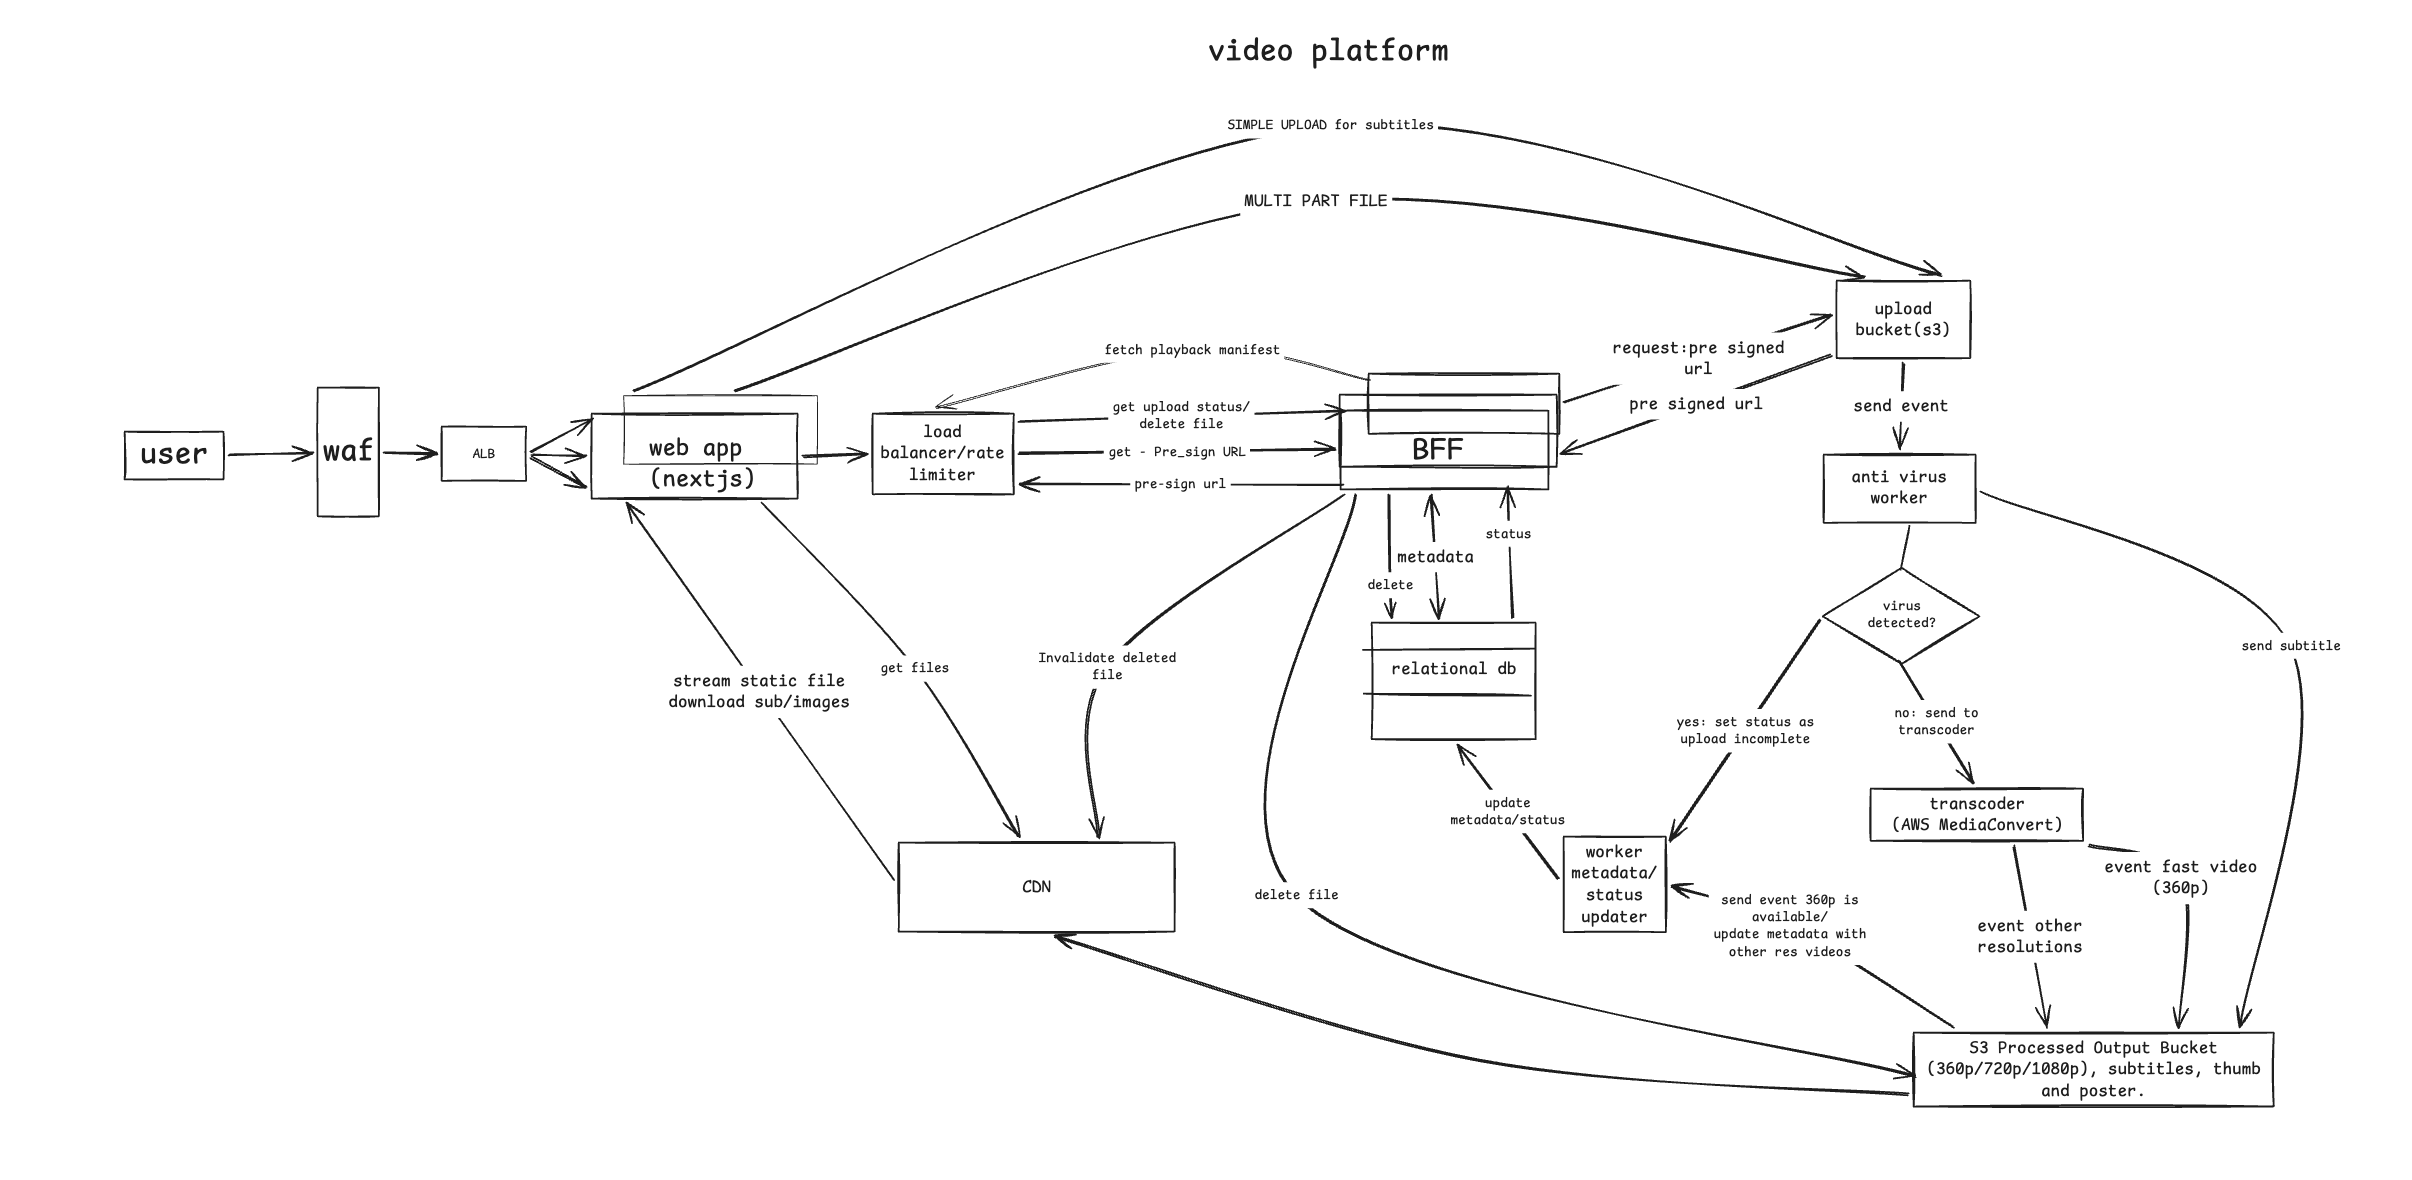
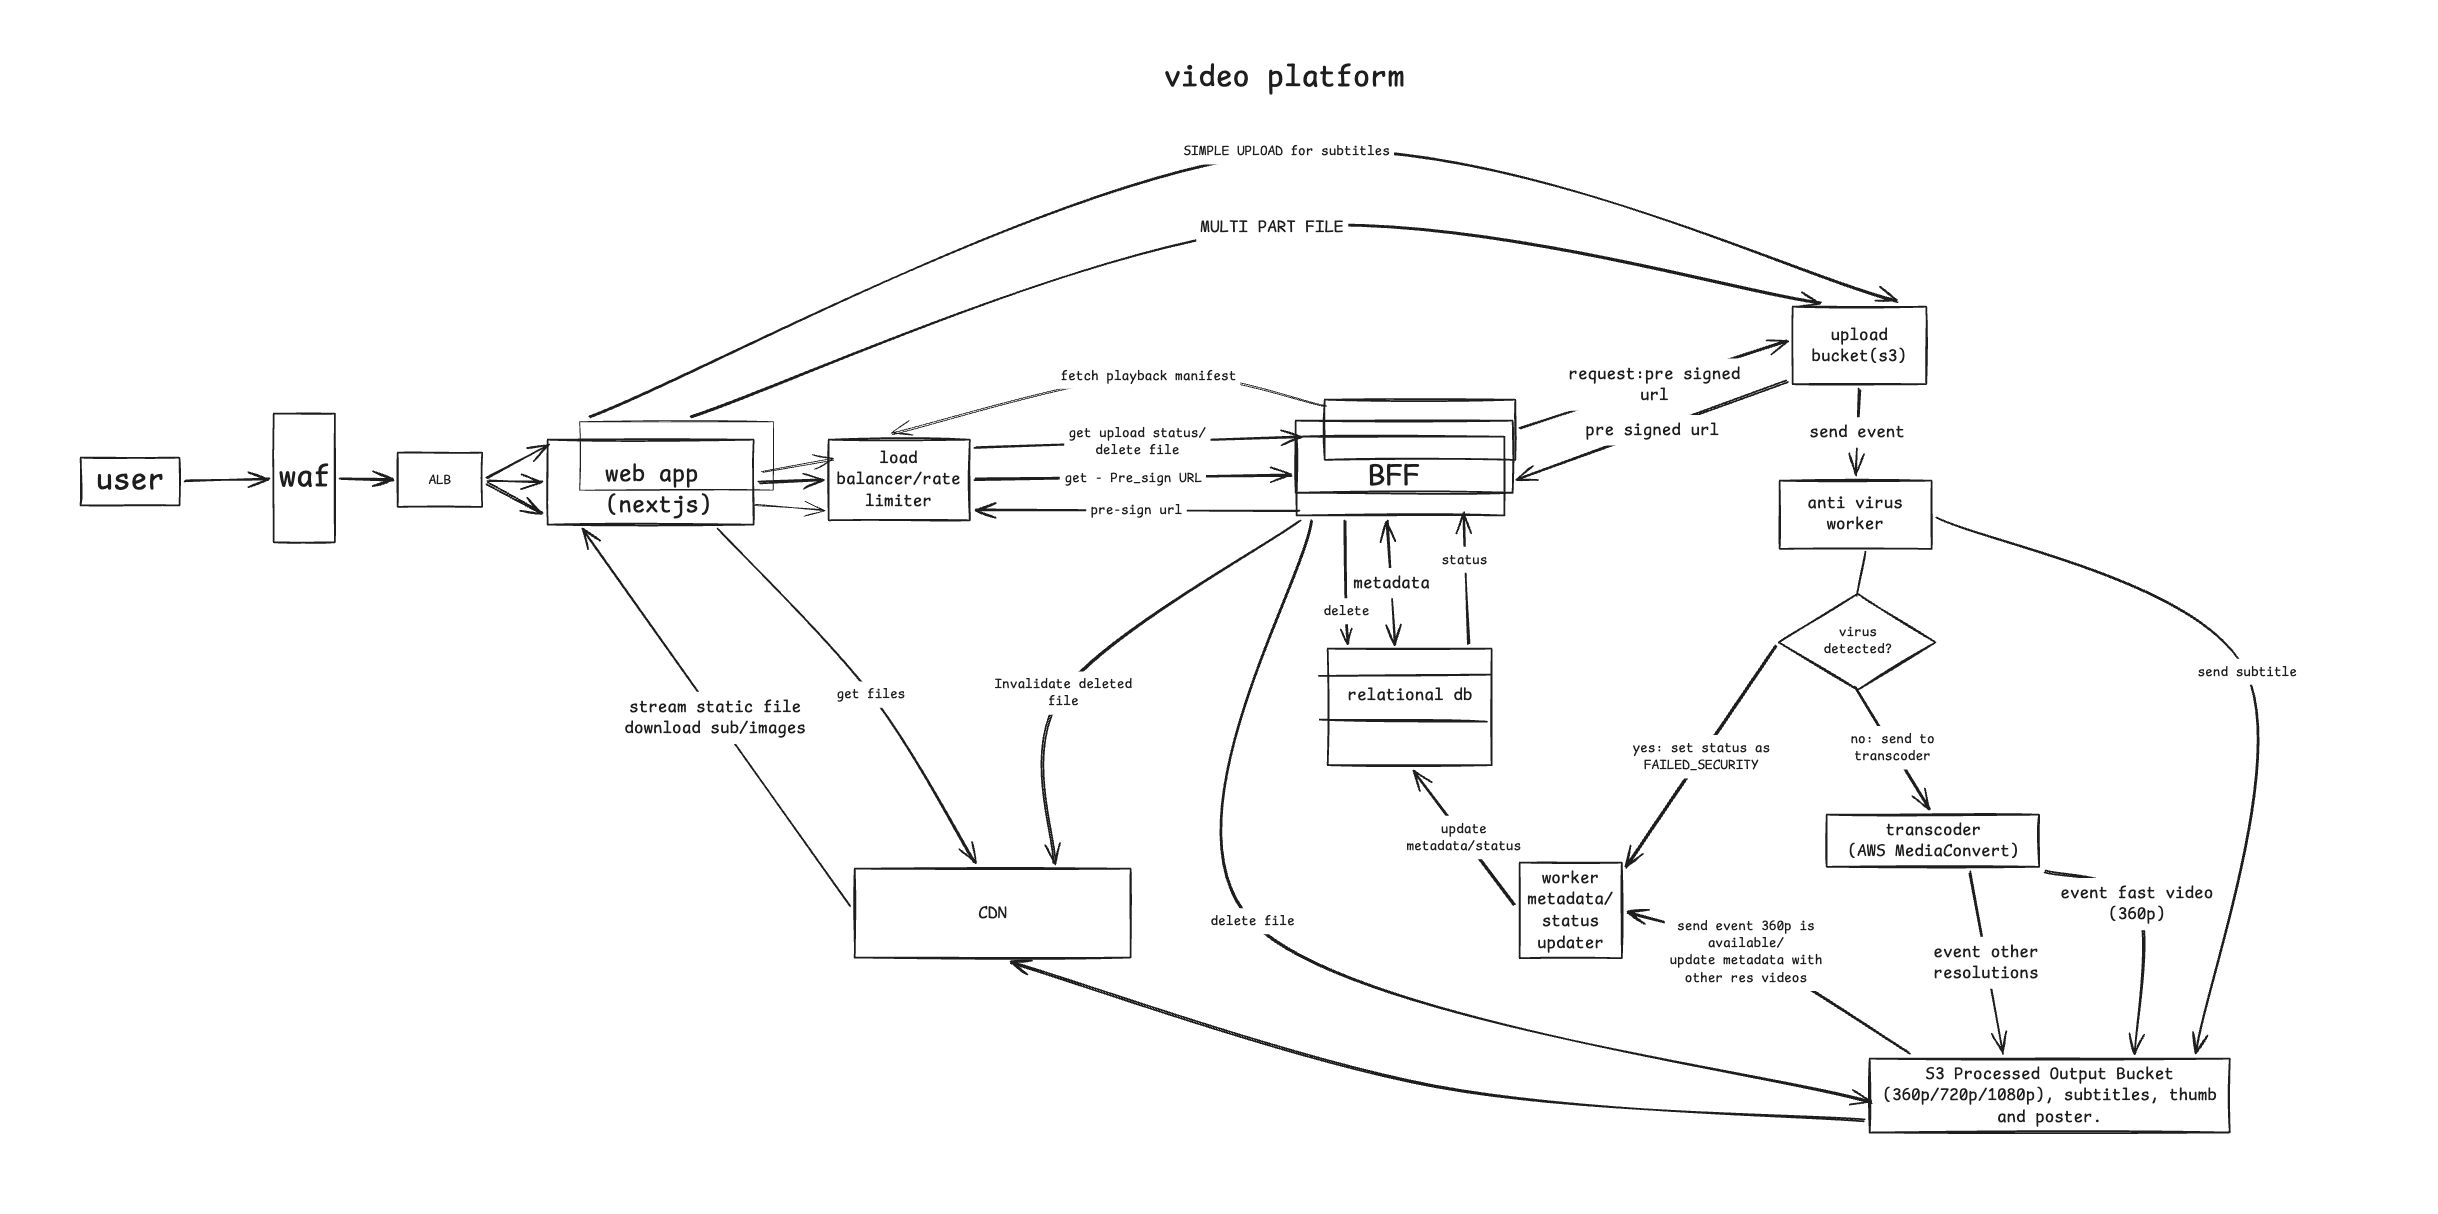
Final updates

diff --git a/description.md b/description.md
@@ -1,0 +1,166 @@
+# System Architecture Design: Video Platform
+
+![System Architecture Diagram](system-design.png)
+
+## 1. Architecture Components
+
+*   **WAF (Web Application Firewall):** Protects the application edge against attacks and applies Rate Limiting rules.
+*   **ALB (Application Load Balancer):** Distributes web request traffic to the Web App, handling concurrency spikes with high availability.
+*   **Internal Load Balancer/Rate Limiter:** Sits between the Web App and the BFF to distribute internal API requests and enforce Rate Limiting rules against API exhaustion.
+*   **Web App:** Client interface. Manages in-memory file chunking, executes parallel uploads, and consumes the Playback Manifest to render the HTML5 video player. Handles MP4, MOV, and WebM file inputs with chunk-level retry and abort logic.
+*   **BFF (Backend For Frontend):** Central orchestration point. Generates Pre-signed URLs, and manages initial metadata in the relational DB, staying isolated from heavy media traffic. Provides polling endpoint returning the generated `videoId`.
+*   **Upload Bucket (S3):** Quarantine zone. Temporarily stores raw files uploaded by users.
+*   **Anti-Virus Worker:** Event-driven service that acts as a strict security gatekeeper. It applies the fail-fast pattern, scanning for infections and discarding malicious files before consuming processing resources.
+*   **Transcoder (AWS MediaConvert):** Outsourced processing engine. Responsible for generating multiple resolutions and extracting images (posters and sprites).
+*   **S3 Processed Output Bucket:** Immutable and final storage for validated videos, subtitles, and images.
+*   **Worker Metadata/Status Updater:** Listener for native infrastructure events (`ObjectCreated`). Extracts technical metadata (duration, dimensions) and asynchronously updates the database as soon as files are physically available.
+*   **CDN (Content Delivery Network):** Global content delivery edge. Intercepts and serves massive viewer traffic through cache.
+
+---
+
+## 2. Flows Description
+
+*   **Upload Flow:** The Next.js client requests Pre-signed URLs from the BFF for a Multipart Upload. The BFF creates the initial database record with basic metadata (ID, filename, user) and status `PENDING`. The client then uploads chunks directly to the S3 Upload Bucket, bypassing the backend to save bandwidth. 
+*   **Security Gatekeeper Flow:** The S3 `ObjectCreated` event triggers the Anti-Virus Worker. The worker applies the Fail-Fast pattern (virus scan). If clean, it dispatches a transcoding job to AWS MediaConvert and deletes the raw file from the temporary bucket.
+*   **Progressive State & Metadata Sync:** Once MediaConvert finishes generating the fast preview version (360p), it lands in the S3 Processed Output Bucket. This triggers the Worker Metadata/Status Updater, which extracts technical metadata (duration, dimensions) and updates the DB status to `PARTIAL_READY` (enabling playback ≤ 15s). A second event triggers when the remaining resolutions (720p/1080p) are completed, updating the DB status to `READY`.
+*   **Playback Flow:** The client polls the BFF. Once at least the preview is ready, it fetches the Playback Manifest JSON. The HTML5 player then uses HTTP Byte-Range requests to fetch the video directly from the CDN edge.
+*   **Deletion Flow:** The user triggers a delete action. The BFF immediately removes the database record, purges the objects from the S3 Processed Bucket, and issues an active Cache Invalidation request to the CDN to meet the ≤60s SLA.
+
+---
+
+## 3. Entities
+
+### 3.1. DB
+
+**Table: `Video`**
+*   `id` (UUID, Primary Key)
+*   `user_id` (UUID, Foreign Key) - *Created by BFF*
+*   `original_filename` (String) - *Created by BFF*
+*   `status` (Enum) - *[PENDING, PROCESSING, PARTIAL_READY, READY, FAILED, FAILED_SECURITY]*
+*   `duration_seconds` (Integer) - *Populated by Worker Metadata/Status Updater*
+*   `dimensions` (String, e.g., "1920x1080") - *Populated by Worker Metadata/Status Updater*
+*   `has_captions` (Boolean) - *Defaults to false*
+*   `created_at` (Timestamp)
+*   `updated_at` (Timestamp)
+
+### 3.2. S3 Object Storage Structure
+
+**Upload Bucket (Temporary / Quarantine)**
+*   `/{videoId}/raw_video.mp4` *(Generated by: Next.js Client via Multipart Upload)*
+*   `/{videoId}/raw_captions.vtt` *(Generated by: Next.js Client via Simple Upload)*
+
+**Processed Output Bucket (Final / CDN Origin)**
+*   `/{videoId}/360p.mp4` *(Generated by: AWS MediaConvert - Fast preview)*
+*   `/{videoId}/720p.mp4` *(Generated by: AWS MediaConvert)*
+*   `/{videoId}/1080p.mp4` *(Generated by: AWS MediaConvert)*
+*   `/{videoId}/poster.jpg` *(Generated by: AWS MediaConvert - Static thumbnail)*
+*   `/{videoId}/sprite.jpg` *(Generated by: AWS MediaConvert - Trick-play image)*
+*   `/{videoId}/sprite_map.vtt` *(Generated by: AWS MediaConvert - Trick-play coordinates)*
+*   `/{videoId}/captions.vtt` *(Generated by: Anti-Virus Worker - Moved from Quarantine if clean)*
+
+---
+
+## 4. API Contracts
+
+The REST API is designed to be lightweight, delegating heavy payload transfers to S3.
+
+**4.1. Initialize Upload**
+*   **Route:** `POST /api/videos/upload`
+*   **Request:** 
+    ```json
+    { 
+      "filename": "video.mp4", 
+      "fileSize": 104857600, 
+      "hasCaptions": false 
+    }
+    ```
+*   **Response (200 OK):** 
+    ```json
+    {
+      "videoId": "abc-123",
+      "videoPresignedUrls": [
+        "https://s3.../part1", 
+        "https://s3.../part2"
+      ],
+      "captionsPresignedUrl": null
+    }
+    ```
+    *(Note: `captionsPresignedUrl` is only generated and returned if `hasCaptions` is set to true in the request).*
+
+**4.2. Poll Status**
+*   **Route:** `GET /api/videos/{id}/status`
+*   **Response (200 OK):** `{ "videoId": "abc-123", "status": "PROCESSING" }`
+
+**4.3. Fetch Playback Manifest**
+*   **Route:** `GET /api/videos/{id}/manifest`
+*   **Response (200 OK):**
+    ```json
+    {
+      "videoId": "abc-123",
+      "status": "READY", 
+      "metadata": { "durationSeconds": 605 },
+      "poster": "https://cdn.domain.com/abc-123/poster.jpg",
+      "sources": [
+        { "resolution": "1080p", "url": "https://cdn.domain.com/abc-123/1080p.mp4" },
+        { "resolution": "720p", "url": "https://cdn.domain.com/abc-123/720p.mp4" },
+        { "resolution": "360p", "url": "https://cdn.domain.com/abc-123/360p.mp4" }
+      ],
+      "trickPlay": {
+        "spriteImage": "https://cdn.domain.com/abc-123/sprite.jpg",
+        "vttMap": "https://cdn.domain.com/abc-123/sprite_map.vtt"
+      },
+      "captions": [
+        { "language": "en", "label": "English", "url": "https://cdn.domain.com/abc-123/captions.vtt" }
+      ]
+    }
+    ```
+
+**4.4. Delete Video**
+*   **Route:** `DELETE /api/videos/{id}`
+*   **Response (204 No Content):** *(Triggers DB, S3, and CDN cache invalidation asynchronously)*
+
+---
+
+## 5. Architectural Decisions & Tradeoffs
+
+**5.1. Direct-to-S3 Uploads vs. Uploading via BFF**
+*   **Chosen:** Client chunks and uploads directly to the S3 Upload Bucket via Pre-signed URLs.
+*   **Alternative:** Routing all upload traffic through the Next.js API or the BFF.
+*   **Tradeoff:** Direct uploads prevent the backend from becoming a network bottleneck and drastically reduce compute costs. The tradeoff is increased complexity on the frontend, which now must handle chunk management, network progress, and retries natively.
+
+**5.2. Managed Transcoder (AWS MediaConvert) vs. Self-Hosted FFmpeg**
+*   **Chosen:** AWS MediaConvert to handle all media processing.
+*   **Alternative:** Deploying auto-scaling containerized Workers running open-source FFmpeg.
+*   **Tradeoff:** MediaConvert offers zero operational overhead, infinite scalability, and native support for Sprite/VTT map generation. The tradeoff is vendor lock-in and potentially higher unit costs at a massive, enterprise-level scale compared to managing custom EC2 fleets.
+
+**5.3. Relational Database vs. NoSQL**
+*   **Chosen:** Relational Database (e.g., PostgreSQL).
+*   **Alternative:** NoSQL database (e.g., DynamoDB or MongoDB).
+*   **Tradeoff:** A relational database provides strong ACID guarantees, and strict schemas for state management. While NoSQL offers extreme horizontal scale **and would be the strictly better choice if the system required massive write throughput**, the PRD's specific scale (20k uploads/day) is easily handled by a single modern SQL database. The tradeoff is slightly more rigid schema migrations compared to NoSQL's schema-less nature.
+
+**5.4. Single Database Instance vs. Read Replicas**
+*   **Chosen:** Single well-indexed database instance with automated daily backups and Point-In-Time Recovery (PITR) enabled.
+*   **Alternative:** Primary-Replica architecture (Writer/Reader instances).
+*   **Tradeoff:** Avoiding read replicas explicitly prevents **replication lag** (eventual consistency), which could break the frontend's polling mechanism by returning stale state data and violating the ≤ 15s playback SLA. Since 5,000 concurrent reads are trivial for a single database with connection pooling, this approach prioritizes strict consistency. To guarantee data durability and disaster recovery without the operational cost of a running replica, the architecture relies on managed automated backups and snapshots (e.g., AWS RDS).
+
+**5.5. File Deduplication: Client-Side Hashing vs. Server-Side**
+*   **Chosen:** No strict client-side deduplication for the MVP (accept uploads directly, potentially handling deduplication server-side via the Anti-Virus Worker or S3 ETags later).
+*   **Alternative:** Client calculates a file hash (e.g., SHA-256) before uploading to prevent duplicate network transfers and transcoding costs.
+*   **Tradeoff:** While client-side hashing saves backend resources, computing a hash for a 1GB video in the browser introduces significant UX friction (a noticeable delay before the upload even begins) and engineering complexity (requiring Web Workers to prevent UI freezing). Given the PRD's moderate scale (20k uploads/day), the risk of degrading the user experience outweighs the marginal infrastructure cost savings of preventing duplicate transcodes.
+
+---
+
+## 6. Requirements Checklist
+
+### Functional Requirements & Constraints
+*   ~~Support videos up to 1GB / 10 min~~: Met using Multipart Upload directly to S3, chunking the file on the client and sending parallel batches for maximum network efficiency.
+*   ~~Video transcoding (360p, 720p, 1080p)~~: Solved by delegating asynchronous processing to AWS MediaConvert, optimizing infrastructure.
+*   ~~Thumbnails and Sprite Sheets generation~~: Met natively by MediaConvert's image output settings, including automatic `.vtt` mapping generation.
+*   ~~Optional captions served as static files~~: Addressed through a simple upload flow where the Worker just moves the `.vtt` file from the ingest zone to the final storage, without transcoding.
+*   ~~Video deletion making links unusable in ≤60s~~: Achieved by designing a BFF route that deletes database records and S3 objects, forcing an immediate active cache invalidation in the CDN.
+
+### Non-Functional Requirements (Scale & Performance)
+*   ~~500 concurrent uploads and 20k uploads/day~~: Supported by the Application Load Balancer and network decoupling via Pre-signed URLs, shifting bandwidth load to the Object Storage.
+*   ~~5,000 concurrent viewers~~: Met by relying 100% on the CDN for distribution, completely isolating the internal system from playback traffic.
+*   ~~Robust virus scanning~~: Achieved by establishing the security Worker as the main gatekeeper, processing files as soon as they hit the Upload Bucket.
+*   ~~Playback start time ≤ 2.0s P95~~: Guaranteed by combining native CDN HTTP Byte-Range requests and MediaConvert's Fast Start setting, which places the structural index (`moov atom`) at the header of the `.mp4` file.
